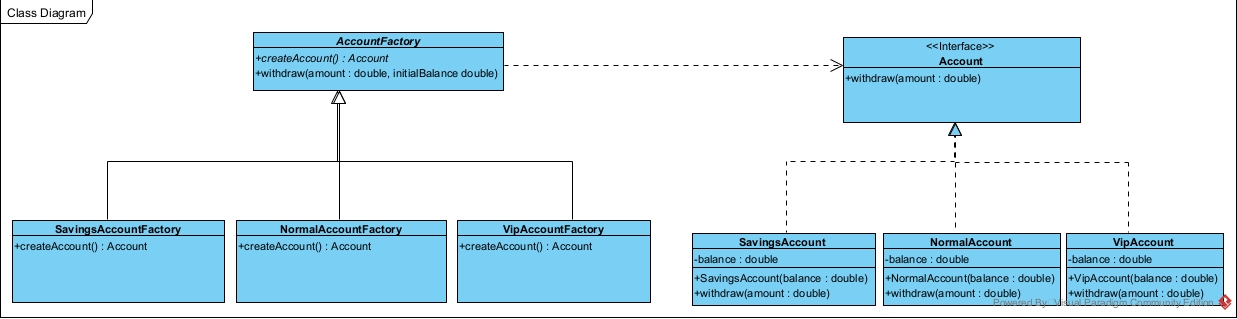
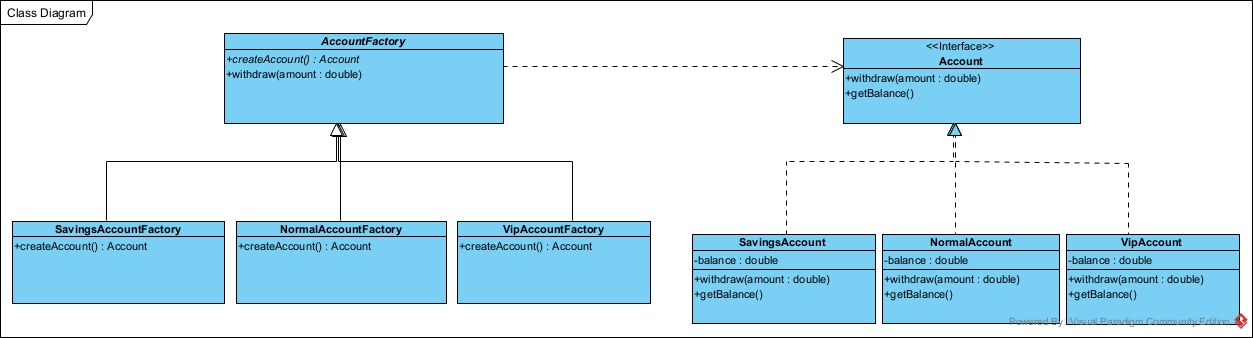
Xong bài tập 3

diff --git a/57_2251172519_NguyenThiThanhThuy_BaiTap3/src/VipAccount.java b/57_2251172519_NguyenThiThanhThuy_BaiTap3/src/VipAccount.java
@@ -4,17 +4,15 @@ public class VipAccount implements Account {
     public VipAccount(double balance) {
         this.balance = balance;
     }
+
     @Override
     public void withdraw(double amount) {
-        if (amount <= 0) {
-            System.out.println("Số tiền rút phải lớn hơn 0.");
-            return;
-        }
-        if (balance - amount >= -400) {
+        // Cho phép rút vượt số dư nhưng không vượt quá -200
+        if (balance - amount >= -200) {
             balance -= amount;
-            System.out.println("VipAccount: Rút thành công " + amount + ", số dư còn lại của bạn là: " + balance);
+            System.out.println("VipAccount: Rút thành công " + amount + ". Số dư còn lại: " + balance);
         } else {
-            System.out.println("VipAccount: Không thể rút quá giới hạn âm 400. Số dư hiện tại: " + balance);
+            System.out.println("VipAccount: Rút thất bại. Không được vượt quá hạn mức tín dụng -200.");
         }
     }
 

diff --git a/57_2251172519_NguyenThiThanhThuy_BaiTap3/src/NormalAccount.java b/57_2251172519_NguyenThiThanhThuy_BaiTap3/src/NormalAccount.java
@@ -1,19 +1,18 @@
 public class NormalAccount implements Account {
     private double balance;
-
     public NormalAccount(double balance) {
         this.balance = balance;
     }
+
     @Override
     public void withdraw(double amount) {
-        if (balance >= amount) {
+        if (amount <= balance) {
             balance -= amount;
-            System.out.println("NormalAccount: Rút thành công " + amount + ", số dư còn lại của bạn là: " + balance);
+            System.out.println("NormalAccount: Rút thành công " + amount + ". Số dư còn lại: " + balance);
         } else {
-            System.out.println("NormalAccount: Rút thất bại, không đủ tiền trong tài khoản.");
+            System.out.println("NormalAccount: Rút thất bại. Không đủ tiền.");
         }
     }
-
     @Override
     public double getBalance() {
         return balance;

diff --git a/57_2251172519_NguyenThiThanhThuy_BaiTap3/src/SavingsAccount.java b/57_2251172519_NguyenThiThanhThuy_BaiTap3/src/SavingsAccount.java
@@ -7,11 +7,11 @@ public class SavingsAccount implements Account {
 
     @Override
     public void withdraw(double amount) {
-        if (balance >= amount) {
+        if (amount <= balance) {
             balance -= amount;
-            System.out.println("SavingsAccount: Rút thành công " + amount + ", số dư còn lại của bạn là: " + balance);
+            System.out.println("SavingsAccount: Rút thành công " + amount + ". Số dư còn lại: " + balance);
         } else {
-            System.out.println("SavingsAccount: Rút thất bại, không đủ tiền trong tài khoản.");
+            System.out.println("SavingsAccount: Rút thất bại. Không đủ tiền.");
         }
     }
 

diff --git a/57_2251172519_NguyenThiThanhThuy_BaiTap3/src/Main.java b/57_2251172519_NguyenThiThanhThuy_BaiTap3/src/Main.java
@@ -3,12 +3,12 @@ public class Main {
         AccountFactory factory;
 
         factory = new VipAccountFactory();
-        factory.withdraw(500, 100);
+        factory.withdraw(2000); // Cho phép rút vượt nếu chưa quá -200
 
-//        factory = new SavingsAccountFactory();
-//        factory.withdraw(200, 500);
-//
-//        factory = new NormalAccountFactory();
-//        factory.withdraw(100, 80);
+        factory = new SavingsAccountFactory();
+        factory.withdraw(400); // OK
+
+        factory = new NormalAccountFactory();
+        factory.withdraw(600); // Thất bại nếu vượt quá 500
     }
 }

diff --git a/57_2251172519_NguyenThiThanhThuy_BaiTap3/src/AccountFactory.java b/57_2251172519_NguyenThiThanhThuy_BaiTap3/src/AccountFactory.java
@@ -1,7 +1,7 @@
 public abstract class AccountFactory {
-    public abstract Account createAccount(double balance);
-    public void withdraw(double amount, double initialBalance) {
-        Account account = createAccount(initialBalance);
+    public abstract Account createAccount();
+    public void withdraw(double amount) {
+        Account account = createAccount();
         account.withdraw(amount);
     }
 }

diff --git a/57_2251172519_NguyenThiThanhThuy_BaiTap3/src/SavingsAccountFactory.java b/57_2251172519_NguyenThiThanhThuy_BaiTap3/src/SavingsAccountFactory.java
@@ -1,6 +1,6 @@
 public class SavingsAccountFactory extends AccountFactory {
     @Override
-    public Account createAccount(double balance) {
-        return new SavingsAccount(balance);
+    public Account createAccount() {
+        return new SavingsAccount(500);
     }
 }

diff --git a/57_2251172519_NguyenThiThanhThuy_BaiTap3/src/NormalAccountFactory.java b/57_2251172519_NguyenThiThanhThuy_BaiTap3/src/NormalAccountFactory.java
@@ -1,6 +1,6 @@
 public class NormalAccountFactory extends AccountFactory {
     @Override
-    public Account createAccount(double balance) {
-        return new NormalAccount(balance);
+    public Account createAccount() {
+        return new NormalAccount(500);
     }
 }

diff --git a/57_2251172519_NguyenThiThanhThuy_BaiTap3/src/VipAccountFactory.java b/57_2251172519_NguyenThiThanhThuy_BaiTap3/src/VipAccountFactory.java
@@ -1,6 +1,6 @@
 public class VipAccountFactory extends AccountFactory {
     @Override
-    public Account createAccount(double balance) {
-        return new VipAccount(balance);
+    public Account createAccount() {
+        return new VipAccount(1500);
     }
 }
